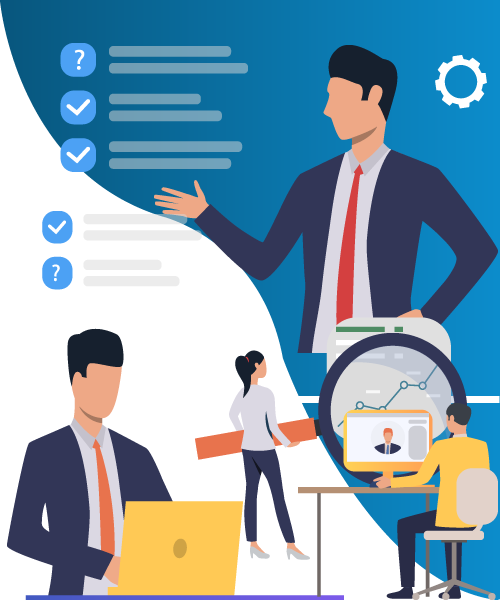
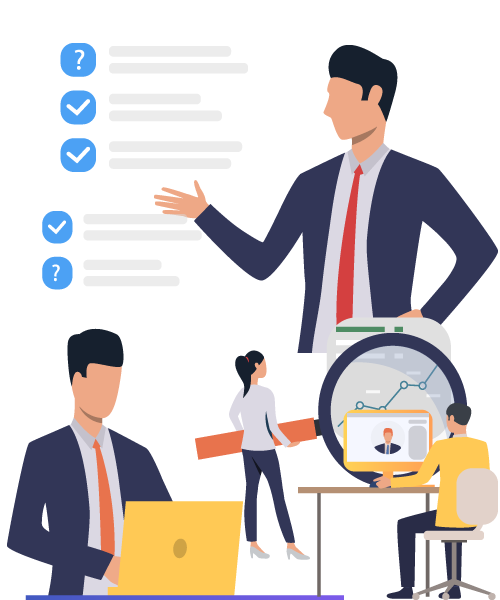
update-image

diff --git a/assets/css/app.css b/assets/css/app.css
@@ -2897,7 +2897,8 @@
   }
   
   .banner.banner-six {
-    height: 950px;
+    /* height: 950px; */
+    height: 807px;
     position: relative;
     padding-top: 225px;
     overflow: hidden
@@ -2918,8 +2919,8 @@
   }
   
   .banner.banner-six .banne-content-wrapper-six .banner-title {
-    font-size: 50px;
-    line-height: 60px;
+    font-size: 45px;
+    line-height: 52px;
     font-weight: 600;
     margin-bottom: 20px
   }
@@ -2945,9 +2946,9 @@
   }
   
   .banner.banner-six .banner-six-promo-image>img {
-    /* border-radius: 10px;
+    border-radius: 10px;
     -webkit-box-shadow: 0 30px 40px 0 rgba(1, 50, 5, .14);
-    box-shadow: 0 30px 40px 0 rgba(1, 50, 5, .14) */
+    box-shadow: 0 30px 40px 0 rgba(1, 50, 5, .14)
   }
   
   .banner.banner-six .banner-six-promo-image .dot-shape {

diff --git a/index.html b/index.html
@@ -88,7 +88,7 @@
                      </div>
                   </div>
                   <div class="col-md-6">
-                     <div class="banner-six-promo-image text-right"><img src="assets/img/png/banner.png" class="wow pixZoomIn" alt="askPio"> <span class="dot-shape"><img src="assets/img/png/banner-dot.png" alt="askPio"></span></div>
+                     <div class="banner-six-promo-image text-right"><img src="assets/img/jpg/banner1.jpg" class="wow pixZoomIn" alt="askPio"> <span class="dot-shape"><img src="assets/img/png/banner-dot.png" alt="askPio"></span></div>
                   </div>
                </div>
             </div>
